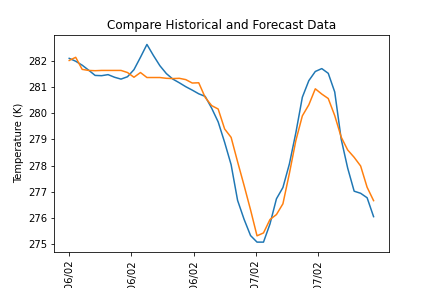
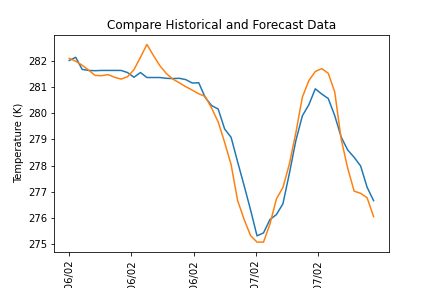
update

diff --git a/Figure.py b/Figure.py
@@ -66,7 +66,7 @@ def ChasseneuilWeather_Final():
 def forecast():
     # Open a JSON file
     # with open('ChasseneuilWeather_Final.json') as json_file:
-    with open ('exact_everyhourforecast2021-02-06-00.json') as json_file:
+    with open ('Compare.json') as json_file:
         data1 = json.load(json_file)
     list_dt1 = []
     list_temp1 = []
@@ -74,14 +74,26 @@ def forecast():
     for i in range(len(data1)):
         list_dt1.append(datetime.datetime.fromtimestamp(data1[i]['dt']).strftime('%Hh-%d/%m'))
         list_temp1.append(data1[i]['temp'])
-        list_hum1.append(data1[i]['humidity'])
+        list_hum1.append(data1[i]['humidity'])    
+        
+    with open ('exact_everyhourforecast2021-02-06-00.json') as json_file:
+        data2 = json.load(json_file)
+    list_dt2 = []
+    list_temp2 = []
+    list_hum2 = []
+    for i in range(len(data2)):
+        list_dt2.append(datetime.datetime.fromtimestamp(data2[i]['dt']).strftime('%Hh-%d/%m'))
+        list_temp2.append(data2[i]['temp'])
+        list_hum2.append(data2[i]['humidity'])
     # print(len(list_dt1))
     # print(list_dt1)
     # print(list_temp1)
+    return list_dt1, list_temp1, list_hum1,list_dt2, list_temp2, list_hum2
 
 def hour_line_interval_temp_time_40year(list_dt, list_temp):
     F1, AX1 = plt.subplots()
     AX1.plot(list_dt, list_temp)
+    print(type(list_dt))
     AX1.grid()
     plt.xticks(np.arange(0,len(list_dt),len(list_dt)/5), rotation='vertical')
     AX1.set_title('Temperature vs Time from 01/02/2021-06/02/2021')
@@ -153,14 +165,14 @@ def compare_forecast(list_dt1, list_temp1, list_hum1, list_dt2, list_temp2, list
     
     
 def main():   
-    data, list_dt, list_temp, list_hum  = ChasseneuilWeather_Final()
-    list_dt1, list_temp1, list_hum1, list_dt2, list_temp2, list_hum2 = forecast()
+    # data, list_dt, list_temp, list_hum  = ChasseneuilWeather_Final()
+    list_dt1, list_temp1, list_hum1,list_dt2, list_temp2, list_hum2 = forecast()
     # hour_scatter_interval_temp_time(list_dt, list_temp)
     # hour_line_interval_temp_time(list_dt, list_temp)
-    hour_line_interval_temp_time_40year(list_dt, list_temp)
+    # hour_line_interval_temp_time_40year(list_dt, list_temp)
     # hour_bar_interval(list_dt, list_temp)
     # hour_scatter_interval_temp_hum(list_hum, list_temp)
-    # compare_forecast(list_dt1, list_temp1, list_hum1, list_dt2, list_temp2, list_hum2)
+    compare_forecast(list_dt1, list_temp1, list_hum1, list_dt2, list_temp2, list_hum2)
     
 if __name__ == "__main__":
     main()
